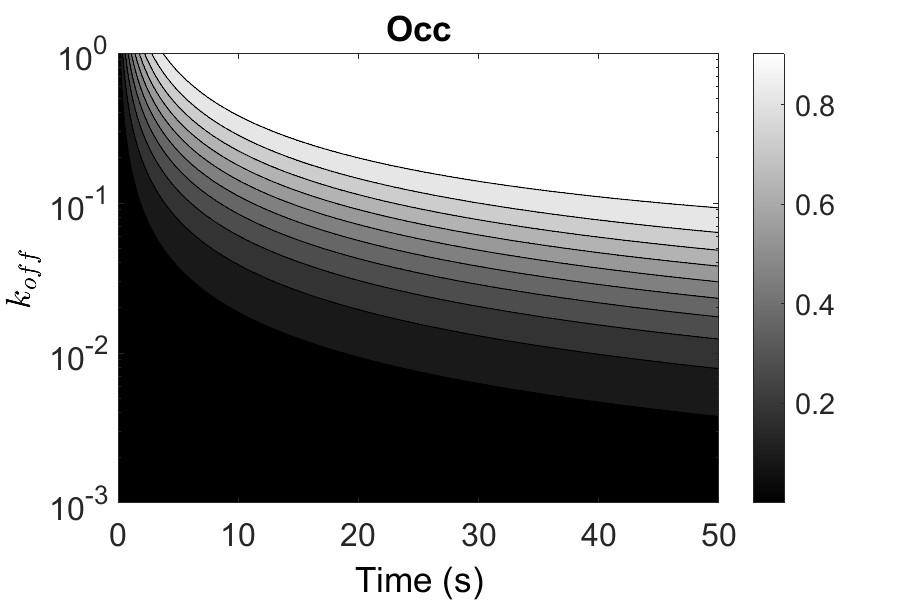
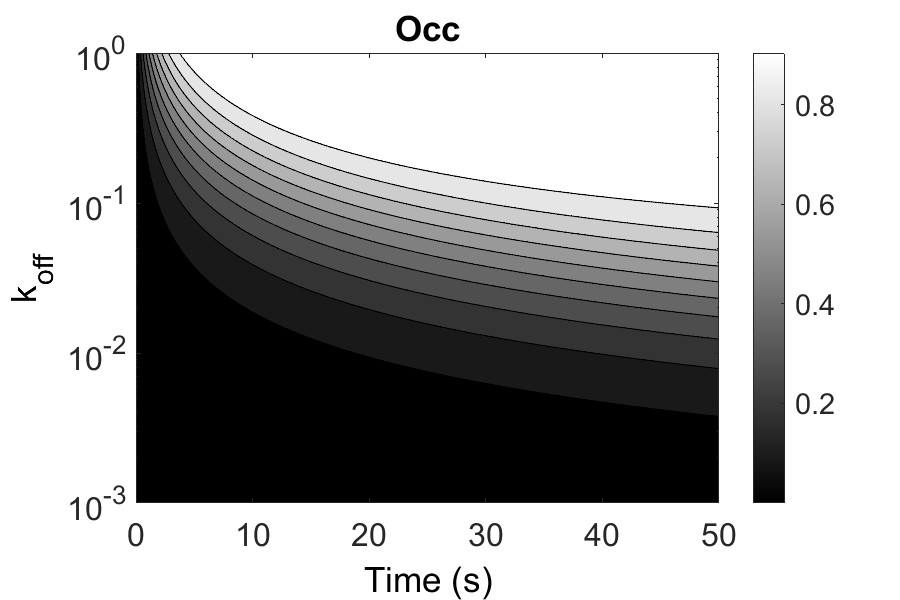
a

diff --git a/Leveraging mathematical models P2/Sensitivity/Sensitivity Analysis/McKSensitivity.m b/Leveraging mathematical models P2/Sensitivity/Sensitivity Analysis/McKSensitivity.m
@@ -12,35 +12,46 @@ clear
 
     % --------------- UNBINDING RATE -----------------------------
 % % Vector de valores de koff
-% koffVect = 0.001:0.001:1;
-% 
-% % Resultados con el número de filas de koff y en cada columna el instante
-% % temporal
-% results_matrix = zeros(length(koffVect), length(solution{1}(:, 1))); 
-% for i = 1:length(koffVect)
-% 
-%     p = complex([5e-5, koffVect(i), 1], 0);
-% 
-%     solution = sensitivity(x0, p, d, tspan);
-% 
-%     % COJO LA RESPUESTA QUE ME INTERESA:
-%     SolResponse = solution{1}(:, 3); 
-%     % Normalización de la respuesta
-%     newSol = (SolResponse .* koffVect(i)) ./ solution{1}(:, 1); 
-% 
-%     % En la fila que define un valor de koff
-%     results_matrix(i, :) = newSol;
-% end
-% 
-% figure('Position', [100, 100, 600, 400]);
-% contourf(tspan, koffVect, results_matrix, 12, 'LineColor', 'k');
-% colormap(gray);
-% colorbar;
-% xlabel('Time (s)', 'FontSize', 18, 'Color', 'k', 'FontWeight', 'normal');
-% ylabel('Unbinding rate', 'FontSize', 18, 'Color', 'k', 'FontWeight', 'normal');
-% title('KPR-1', 'FontSize', 18, 'FontWeight', 'bold', 'Color', 'k');
-% set(gca, 'YDir', 'normal');
-% hold on
+koffVect = 0.001:0.001:1;
+
+% Resultados con el número de filas de koff y en cada columna el instante
+% temporal
+results_matrix = zeros(length(koffVect), length(solution{1}(:, 1))); 
+for i = 1:length(koffVect)
+
+    p = complex([5e-5, koffVect(i), 1], 0);
+
+    solution = sensitivity(x0, p, d, tspan);
+
+    % COJO LA RESPUESTA QUE ME INTERESA:
+    SolResponse = solution{1}(:, 3); 
+    % Normalización de la respuesta
+    newSol = (SolResponse .* koffVect(i)) ./ solution{1}(:, 1); 
+
+    % En la fila que define un valor de koff
+    results_matrix(i, :) = newSol;
+end
+
+figure('Position', [100, 100, 600, 400]);
+contourf(tspan, koffVect, results_matrix, 10, 'LineColor', 'k');
+colormap(gray);
+colorbar;
+xlabel('Time (s)', 'FontSize', 18, 'Color', 'k', 'FontWeight', 'normal');
+%ylabel('$k_{off}$', 'FontSize', 18, 'Color', 'k', 'FontWeight', 'normal', 'Interpreter', 'latex');
+ylabel('k_{off}', 'FontSize', 18, 'Color', 'k', 'FontWeight', 'normal', 'Interpreter', 'tex');
+title('KPR-1', 'FontSize', 18, 'FontWeight', 'bold', 'Color', 'k');
+set(gca, 'YDir', 'normal', 'FontSize', 16, 'YScale', 'log');
+hold on
+
+figure('Position', [100, 100, 600, 400]);
+contourf(tspan, koffVect, results_matrix, 12, 'LineColor', 'k');
+colormap(gray);
+colorbar;
+xlabel('Time (s)', 'FontSize', 18, 'Color', 'k', 'FontWeight', 'normal');
+ylabel('Unbinding rate', 'FontSize', 18, 'Color', 'k', 'FontWeight', 'normal');
+title('KPR-1', 'FontSize', 18, 'FontWeight', 'bold', 'Color', 'k');
+set(gca, 'YDir', 'normal');
+hold on
 
     % --------------- BINDING RATE -----------------------------
 % % Vector de valores de koff
@@ -90,48 +101,48 @@ clear
 % 
 %     % --------------- FORWARD RATE -----------------------------
 % Vector de valores de koff
-kpVect = linspace(0.001, 10, 2000); 
-
-% Resultados con el número de filas de koff y en cada columna el instante
-% temporal
-results_matrix = zeros(length(kpVect), length(solution{1}(:, 1))); 
-for i = 1:length(kpVect)
-
-    p = complex([5e-5, 0.01, kpVect(i)], 0);
-
-    solution = sensitivity(x0, p, d, tspan);
-
-    % COJO LA RESPUESTA QUE ME INTERESA:
-    SolResponse = solution{4}(:, 4); 
-    % Normalización de la respuesta
-    newSol = (SolResponse .* kpVect(i)) ./ solution{4}(:, 1); 
-
-    % En la fila que define un valor de koff
-    results_matrix(i, :) = newSol;
-end
-
-results_matrix1 = log10(results_matrix);
-
-figure('Position', [100, 100, 600, 400]);
-contourf(tspan, kpVect, results_matrix1, 10, 'LineColor', 'k');
-colormap(gray);
-colorbar;
-xlabel('Time (s)', 'FontSize', 18, 'Color', 'k', 'FontWeight', 'normal');
-ylabel('$k_{p}$', 'FontSize', 18, 'Color', 'k', 'FontWeight', 'normal', 'Interpreter', 'latex');
-title('KPR-1', 'FontSize', 18, 'FontWeight', 'bold', 'Color', 'k');
-set(gca, 'YDir', 'normal');
-hold on
-
-inferno = csvread('inferno_colormap.csv');
-figure('Position', [100, 100, 600, 400]);
-imagesc(tspan, kpVect, results_matrix);
-colormap(inferno);
-cb = colorbar;
-xlabel('Time (s)', 'FontSize', 18, 'Color', 'k', 'FontWeight', 'normal');
-ylabel('$k_{p}$', 'FontSize', 18, 'Color', 'k', 'FontWeight', 'normal', 'Interpreter', 'latex');
-title('KPR-NF2', 'FontSize', 18, 'FontWeight', 'bold', 'Color', 'k');
-set(gca, 'YDir', 'normal');
-hold on
+% kpVect = linspace(0.001, 10, 2000); 
+% 
+% % Resultados con el número de filas de koff y en cada columna el instante
+% % temporal
+% results_matrix = zeros(length(kpVect), length(solution{1}(:, 1))); 
+% for i = 1:length(kpVect)
+% 
+%     p = complex([5e-5, 0.01, kpVect(i)], 0);
+% 
+%     solution = sensitivity(x0, p, d, tspan);
+% 
+%     % COJO LA RESPUESTA QUE ME INTERESA:
+%     SolResponse = solution{4}(:, 4); 
+%     % Normalización de la respuesta
+%     newSol = (SolResponse .* kpVect(i)) ./ solution{4}(:, 1); 
+% 
+%     % En la fila que define un valor de koff
+%     results_matrix(i, :) = newSol;
+% end
+% 
+% results_matrix1 = log10(results_matrix);
+% 
+% figure('Position', [100, 100, 600, 400]);
+% contourf(tspan, kpVect, results_matrix1, 10, 'LineColor', 'k');
+% colormap(gray);
+% colorbar;
+% xlabel('Time (s)', 'FontSize', 18, 'Color', 'k', 'FontWeight', 'normal');
+% ylabel('$k_{p}$', 'FontSize', 18, 'Color', 'k', 'FontWeight', 'normal', 'Interpreter', 'latex');
+% title('KPR-1', 'FontSize', 18, 'FontWeight', 'bold', 'Color', 'k');
+% set(gca, 'YDir', 'normal');
+% hold on
+% 
+% inferno = csvread('inferno_colormap.csv');
+% figure('Position', [100, 100, 600, 400]);
+% imagesc(tspan, kpVect, results_matrix);
+% colormap(inferno);
+% cb = colorbar;
+% xlabel('Time (s)', 'FontSize', 18, 'Color', 'k', 'FontWeight', 'normal');
+% ylabel('$k_{p}$', 'FontSize', 18, 'Color', 'k', 'FontWeight', 'normal', 'Interpreter', 'latex');
+% title('KPR-NF2', 'FontSize', 18, 'FontWeight', 'bold', 'Color', 'k');
+% set(gca, 'YDir', 'normal');
+% hold on
 
 
 

diff --git a/Leveraging mathematical models P2/Sensitivity/Sensitivity Analysis/KPR_LS_Sensitivity.m b/Leveraging mathematical models P2/Sensitivity/Sensitivity Analysis/KPR_LS_Sensitivity.m
@@ -45,6 +45,17 @@ title('KPR-LS', 'FontSize', 18, 'FontWeight', 'bold', 'Color', 'k');
 set(gca, 'YDir', 'normal');
 hold on
 
+figure('Position', [100, 100, 600, 400]);
+contourf(tspan, koffVect, results_matrix, 10, 'LineColor', 'k');
+colormap(gray);
+colorbar;
+xlabel('Time (s)', 'FontSize', 18, 'Color', 'k', 'FontWeight', 'normal');
+%ylabel('$k_{off}$', 'FontSize', 18, 'Color', 'k', 'FontWeight', 'normal', 'Interpreter', 'latex');
+ylabel('k_{off}', 'FontSize', 18, 'Color', 'k', 'FontWeight', 'normal', 'Interpreter', 'tex');
+title('KPR-LS', 'FontSize', 18, 'FontWeight', 'bold', 'Color', 'k');
+set(gca, 'YDir', 'normal', 'FontSize', 16, 'YScale', 'log');
+hold on
+
 % inferno = csvread('inferno_colormap.csv');
 % figure('Position', [100, 100, 600, 400]);
 % imagesc(tspan, koffVect, results_matrix);

diff --git a/Leveraging mathematical models P2/Sensitivity/Sensitivity Analysis/OccupSensitivity.m b/Leveraging mathematical models P2/Sensitivity/Sensitivity Analysis/OccupSensitivity.m
@@ -39,9 +39,10 @@ contourf(tspan, koffVect, results_matrix, 10, 'LineColor', 'k');
 colormap(gray);
 colorbar;
 xlabel('Time (s)', 'FontSize', 18, 'Color', 'k', 'FontWeight', 'normal');
-ylabel('$k_{off}$', 'FontSize', 18, 'Color', 'k', 'FontWeight', 'normal', 'Interpreter', 'latex');
+%ylabel('$k_{off}$', 'FontSize', 18, 'Color', 'k', 'FontWeight', 'normal', 'Interpreter', 'latex');
+ylabel('k_{off}', 'FontSize', 18, 'Color', 'k', 'FontWeight', 'normal', 'Interpreter', 'tex');
 title('Occ', 'FontSize', 18, 'FontWeight', 'bold', 'Color', 'k');
-set(gca, 'YDir', 'normal', 'FontSize', 14, 'YScale', 'log');
+set(gca, 'YDir', 'normal', 'FontSize', 16, 'YScale', 'log');
 hold on
 
 save('Occ_koff.mat','tspan','koffVect','results_matrix');
